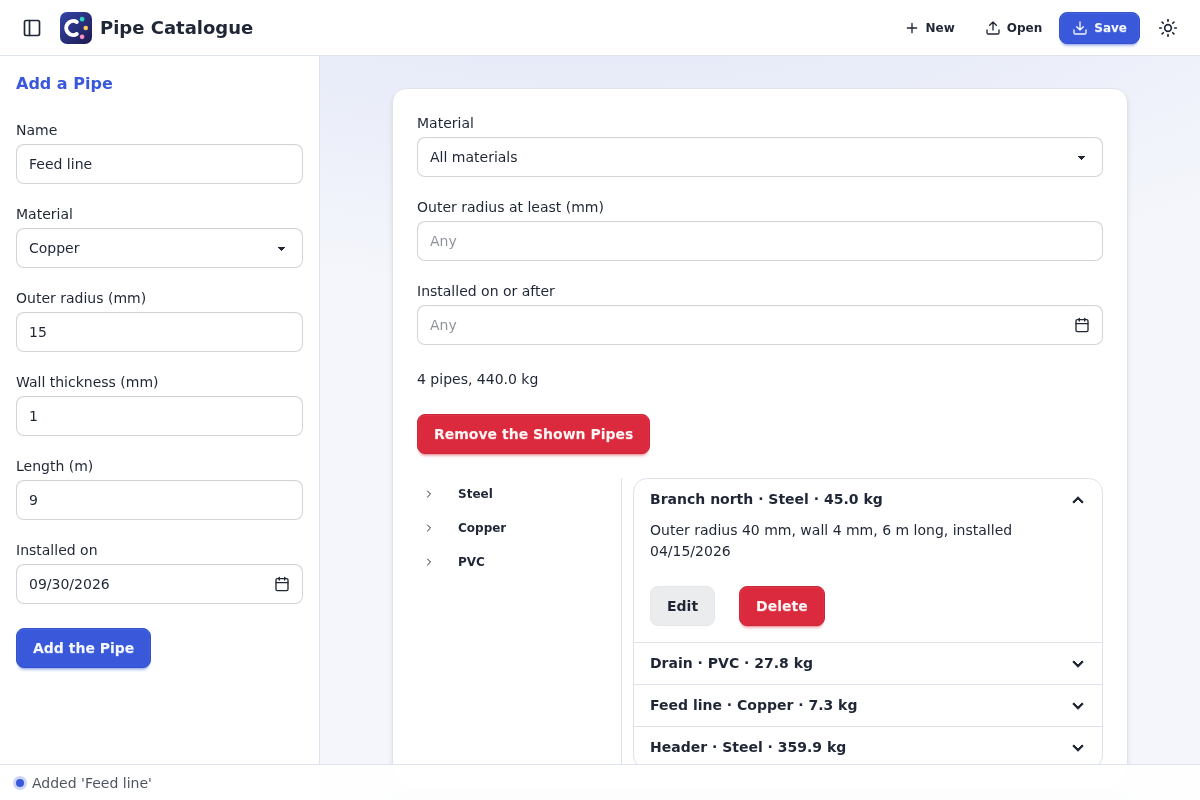
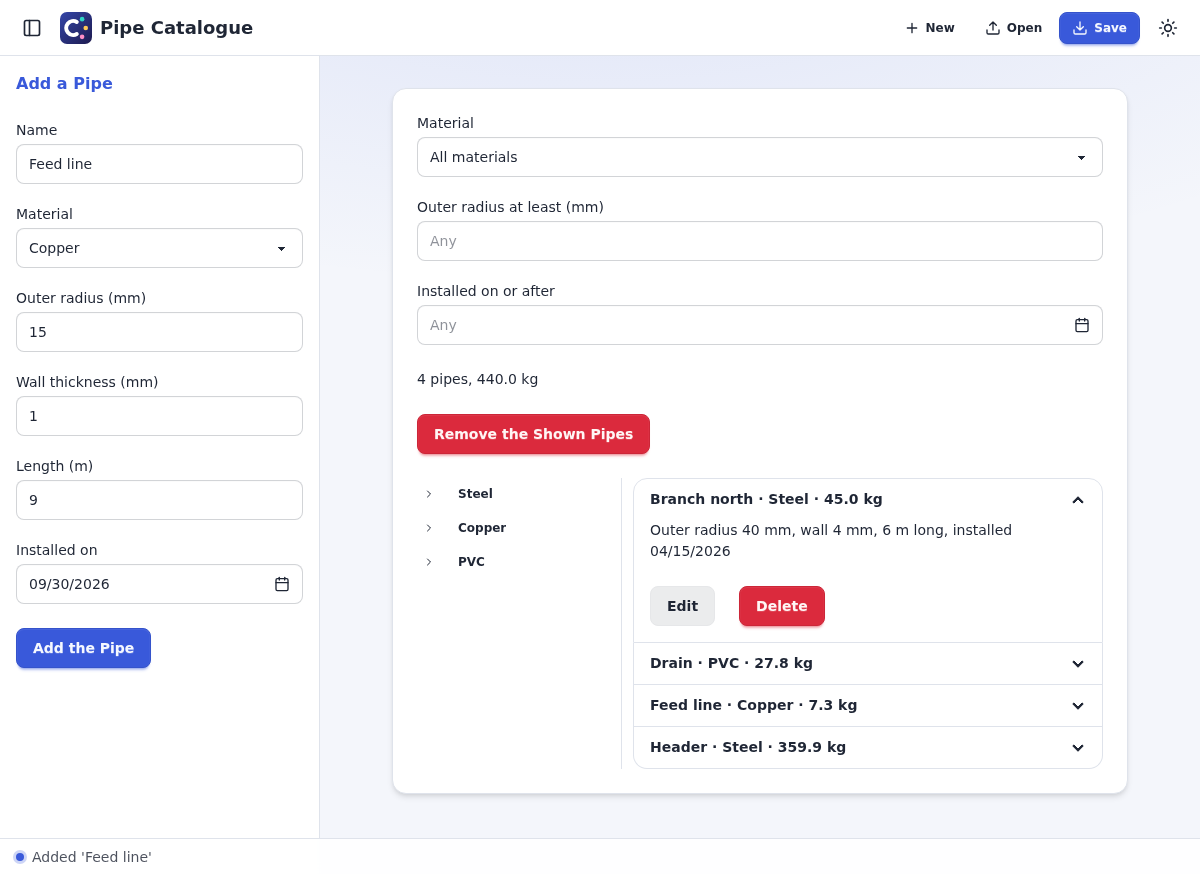
Fit the screenshots to their views on Textual and the web

diff --git a/docs/screenshots.py b/docs/screenshots.py
@@ -74,6 +74,9 @@ IMAGES = ROOT / "docs" / "images"
 WINDOW = (1200, 800)
 #: the terminal's size on Textual, in columns and rows
 TERMINAL = (120, 40)
+BACKENDS = ("qt", "textual", "web")
+#: views that Qt stretches to its window, and that are taller than the others' windows
+TALL = ("textual", "web")
 
 Prepare = Callable[["Any", "Optional[Model]"], None]
 
@@ -87,14 +90,14 @@ class Example:
     prepare: Prepare = lambda _main_view, _model: None
     build_model: Optional[Callable[[], Model]] = None
     setup_model: Optional[Callable[[Any, Any], None]] = None
-    backends: tuple[str, ...] = ("qt", "textual", "web")
+    backends: tuple[str, ...] = BACKENDS
     #: the web app's class, when the example has its own
     web_application: Optional[Callable[..., Any]] = None
     #: the window's size on Qt and the page's on the web, in pixels
     window: tuple[int, int] = WINDOW
-    #: cut the Qt window and the terminal to the views' height: the height to spare goes under
-    #: them, which shows only as an empty area in an image
-    fits_height: bool = False
+    #: the backends whose window fits the views' height: the height to spare goes under them, an
+    #: empty area in an image, and a fixed window trims taller views. Not Qt where a view stretches
+    fits_height: tuple[str, ...] = ()
 
 
 def _quiet(main_view: MainView) -> None:
@@ -287,7 +290,7 @@ def _examples() -> list[Example]:
             window=(900, 360),
         ),
         Example(
-            "pipeform", pipeform.PipeMainView, _pipeform, window=(1200, 1200), fits_height=True
+            "pipeform", pipeform.PipeMainView, _pipeform, window=(1200, 1200), fits_height=BACKENDS
         ),
         Example(
             "pipecatalogue",
@@ -295,16 +298,18 @@ def _examples() -> list[Example]:
             _pipecatalogue,
             pipecatalogue.PipeCatalogueModel,
             pipecatalogue.PipeCatalogueMainView.connect_model,
+            fits_height=TALL,
         ),
-        Example("pipechart", pipechart.PipeChartMainView, _pipechart),
+        Example("pipechart", pipechart.PipeChartMainView, _pipechart, fits_height=TALL),
         Example(
             "pipesweep",
             pipesweep.PipeSweepMainView,
             _pipesweep,
             pipesweep.PipeSweepModel,
             pipesweep.PipeSweepMainView.connect_model,
+            fits_height=TALL,
         ),
-        Example("taskview", taskview.TaskMainView, _taskview),
+        Example("taskview", taskview.TaskMainView, _taskview, fits_height=TALL),
         Example(
             "uberpickups",
             uberpickups.UberPickupsMainView,
@@ -312,7 +317,7 @@ def _examples() -> list[Example]:
             uberpickups.UberPickupsModel,
             _uberpickups_setup,
             window=(1200, 1200),
-            fits_height=True,
+            fits_height=BACKENDS,
         ),
         Example(
             "uberpickupsframe",
@@ -321,13 +326,15 @@ def _examples() -> list[Example]:
             uberpickupsframe.UberPickupsModel,
             _uberpickupsframe_setup,
             window=(1200, 1200),
-            fits_height=True,
+            fits_height=BACKENDS,
         ),
         Example(
             "dataexplorer", dataexplorer.DataExplorerMainView, _dataexplorer, window=(1200, 1200)
         ),
-        Example("figureviewer", figureviewer.FigureViewerMainView, _figureviewer, fits_height=True),
-        Example("batman", batman.BatmanMainView, fits_height=True),
+        Example(
+            "figureviewer", figureviewer.FigureViewerMainView, _figureviewer, fits_height=BACKENDS
+        ),
+        Example("batman", batman.BatmanMainView, fits_height=BACKENDS),
         Example(
             "largetable",
             largetable.LargeTableMainView,
@@ -336,15 +343,18 @@ def _examples() -> list[Example]:
             largetable.LargeTableMainView.connect_model,
         ),
         Example("markdownviewer", markdownviewer.MarkdownViewerMainView, _markdownviewer),
-        Example("studyinputs", studyinputs.StudyInputsMainView, _studyinputs, fits_height=True),
+        Example("studyinputs", studyinputs.StudyInputsMainView, _studyinputs, fits_height=BACKENDS),
         Example(
             "webhello",
             webhello.HelloMainView,
             _webhello,
             backends=("web",),
             web_application=webhello.HelloApp,
+            fits_height=("web",),
         ),
-        Example("textual_demo", textual_demo.TextualDemoMainView, _textual_demo, fits_height=True),
+        Example(
+            "textual_demo", textual_demo.TextualDemoMainView, _textual_demo, fits_height=BACKENDS
+        ),
     ]
 
 
@@ -382,7 +392,7 @@ def qt_screenshot(example: Example, path: Path) -> None:
     for _ in range(100 if example.name == "uberpickups" else 10):
         qt_app.processEvents()
         time.sleep(0.05)
-    if example.fits_height:
+    if "qt" in example.fits_height:
         window.setMinimumSize(0, 0)  # the app's own floor, under which its views still fit
         window.resize(example.window[0], window.sizeHint().height())
         for _ in range(10):
@@ -422,15 +432,20 @@ def textual_svg(example: Example) -> str:
                 if widget.is_scrollable:
                     widget.scroll_home(animate=False)
             await pilot.pause(0.2)
-            if example.fits_height:
+            if "textual" in example.fits_height:
                 rows = _content_rows(textual_app.screen)
                 await pilot.resize_terminal(TERMINAL[0], rows)
                 await pilot.pause(0.2)
                 # the rows that a container's own border and padding still push out of view
+                screen = textual_app.screen
                 hidden = max(
-                    widget.max_scroll_y
-                    for widget in textual_app.screen.query("*")
-                    if all(node.display for node in widget.ancestors_with_self)
+                    (
+                        widget.max_scroll_y
+                        for widget in (screen, *screen.query("*"))
+                        if widget.show_vertical_scrollbar
+                        and all(node.display for node in widget.ancestors_with_self)
+                    ),
+                    default=0,
                 )
                 await pilot.resize_terminal(TERMINAL[0], rows + hidden)
                 await pilot.pause(0.2)
@@ -512,6 +527,12 @@ def web_screenshot(browser: Browser, example: Example, path: Path) -> None:
         if example.name == "uberpickups":
             page.locator('[data-map][aria-busy="false"]').wait_for()
         page.wait_for_timeout(500)
+        if "web" in example.fits_height:
+            # the page's own height, under a smaller window than its views: `min-h-screen` is out
+            page.set_viewport_size({"width": example.window[0], "height": 100})
+            height = page.evaluate("document.documentElement.scrollHeight")
+            page.set_viewport_size({"width": example.window[0], "height": height})
+            page.wait_for_timeout(500)
         page.screenshot(path=str(path), full_page=True)
         context.close()
 
